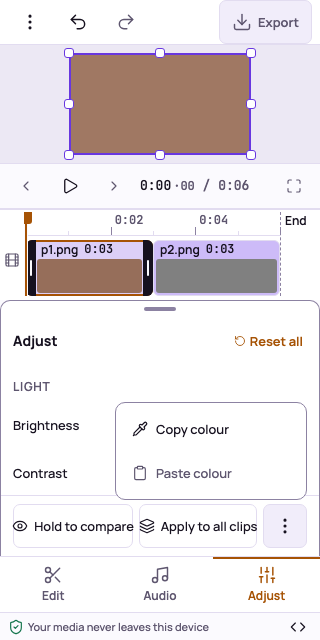
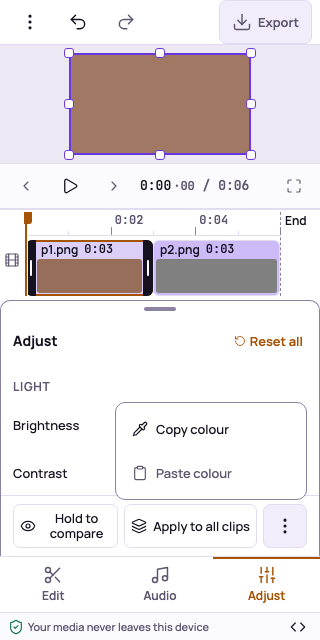
F-007 build questions 138-143, Q100/Q104/Q134 updates, changelog; WebKit-aware drags, 1080p grain parity
Claude-Session: https://claude.ai/code/session_01Bq7VmPLAfYLmC9VGbgjiDp

Changed region(s): [[0.0312, 0.7812, 0.8125, 0.8438]]

diff --git a/tests/harness/export.ts b/tests/harness/export.ts
@@ -1094,7 +1094,8 @@ async function grainParity(grain = 50): Promise<GrainReport> {
   const project = chartProject({ grain }, 0.6);
   const k = 15;
   const file = await exportChartFrame(project, 'colours', k, 1080);
-  if (!file) return { ok: false, sameTwice: false, sameElsewhere: false, nextDiffers: false, corrSame: 0, corrOther: 0 };
+  if (!file)
+    return { ok: false, sameTwice: false, sameElsewhere: false, nextDiffers: false, corrSame: 0, corrOther: 0 };
   const { width: W, height: H, rgba } = file;
   const [a, next, b] = await paintChart(project, 'colours', W, H, [k, k + 1, k]);
   const [c] = await paintChart(project, 'colours', W, H, [k]);

diff --git a/.build-my-app/reports/build-spec-questions.md b/.build-my-app/reports/build-spec-questions.md
@@ -194,3 +194,11 @@ Number fields (F-011 volume, later speed/adjust fields) use the browser's own nu
 136. **Info — the compact inspector's grip (question 105, decided) and a toolbar fix found on the way.** Built per CMP-Inspector "compact": a focusable separator named COPY-inspector.resize on the panel's left edge (700–999 px only), its value the width in CSS pixels; drag, or Left/Up (+16 px), Right/Down (−16 px), Shift (to the limit), Home/End; from `size.inspector` (288 px) to 40 % of the tool's width (320 px at 800 px); no undo step; the width stays through selections, the media drawer and window resizes (clamped) while the page is open. MOD-Keys now treats a focused separator like a slider (RULE-20 *Scope* edited). axe at 800 px found that the compact toolbar's icon-only buttons (Add media, Music, Add text, New project) had no name — their labels were `display: none`; they are now visually hidden instead, so they keep their names (NFR-06; style.md says so).
 137. **Info — F-006 verified on real output.** Preview pixels (Chromium and WebKit, app harness): Fill and Fit of a 16:9 photo in 9:16 (AC1), the 90° turn (red left half on top) and a vertical flip after it (blue on top, i.e. mirrored as displayed, Q22–24), a horizontal flip alone, Original turning to 9:16 after a rotation (AC6). Export (real export workers, decoded): the frame-coded clip rotated once has its top-left corner at the top-right (AC3), and rotated + flipped horizontally has it at the top-left, matching the compositor's paint (INV-02). Export parity also for Fill at 150 % moved 10 % right (samples either side of the shifted white/black edge match the paint). The pinch runs in Chromium e2e through the DevTools protocol's two-point touch (`hasTouch`): two fingers spread to twice their distance give 200 % in one step; lifting one finger ends the pinch and the other finger then changes nothing; a cancelled touch (pointercancel) puts the clip back with no step. WebKit has no multi-touch automation, so a phone check stays on the owner's device checklist.
 
+### F-007 adjust colour and light (wave 4)
+138. **Decided (UX detail, reversible) — Open for your OK: the phone Adjust tab and sheet.** style.md puts Adjust last in the tab bar (Edit, Audio, Text, Looks, Adjust); there is no board of the Adjust sheet itself, only CMP-Inspector "narrow sheets". [Built: the Adjust tab is the bar's third tab for now (Text and Looks join before it with F-010/F-008); it is `aria-disabled` unless a video or photo clip is selected, as the SCR-Editor default narrow board draws it (SCR-Editor "Unavailable controls" now says so, changelog). The sheet holds the inspector's rows at touch size — the title Adjust with Reset all, the groups Light, Colour, Effects, each row label · slider (44 px) · field (`size.field`, `font.size.input`) · Reset (44 px, only when changed) — and a sticky footer of one touch row: Hold to compare (fills the row), Apply to all clips, and More (vertical dots) whose menu (ARIA menu button: opens on its first item, Up/Down/Home/End, Esc closes and returns to More, a click outside closes) holds Copy colour and Paste colour (Paste `aria-disabled` with nothing copied). Long vi-VN footer labels take a second line at 320 px. The sheet closes when the selection stops being a video or photo clip. In the docked inspector the footer follows the CMP-Inspector board: Hold to compare; Copy colour + Paste colour; Apply to all clips.] Proposal: add a CMP-Inspector board "narrow / Adjust sheet", or accept as built.
+139. **Decided (UX detail, reversible) — Open for your OK: Apply to all clips with one clip.** With only the selected clip on the main track there is nothing to apply to. [Built: Apply to all clips is disabled then; it never makes an empty undo step either way.] Proposal: CMP-Inspector "clip Adjust": "…Apply to all clips (unavailable while the main track has one clip)".
+140. **Open — needs your OK: slider resolution on Safari.** The docked inspector's adjustment slider is about 93 px for 201 values (the board's 80 px label, 48 px field and 24 px Reset in a 288 px panel). Chromium places the pointer at sub-pixel precision and reaches every value; WebKit (Safari) uses whole CSS pixels, about 2.5 values per pixel, so some values — including 0 on bipolar sliders — can't be reached by dragging (measured: −1, 1, 4, 6, 9 …). Arrow keys (±1), the number field and the per-row Reset always reach them (F-007.R6), and the e2e covers WebKit with the nearest reachable values. Proposal: (a) accept, or (b) add a small detent: a drag within ±2 of the default snaps to it (a product rule for RULE-08 / CMP-Inspector), or (c) widen the slider by narrowing the label column.
+141. **Open — needs your OK (F-007.AC8 wording): grain "pixel-identical … once exported".** The preview and the export paint grain with the same code from the same output cell, project frame and clip, so before encoding the export's frame is byte-identical to the preview's at the same size (tested: one frame painted twice, and by a second compositor, identical bytes; the next frame differs). Lossy H.264 at Balanced then softens per-pixel grain, so the decoded file can't be pixel-identical: at 1080p the decoded grain correlates 0.16 with the frame's own grain and 0.0002 with the next frame's (480p cells are under a pixel and nearly vanish: 0.07). Proposal: AC8 "…then the grain is pixel-identical each time in the preview and in the frame the export encodes".
+142. **Info — compare hold and the F-007 keys.** Compare is held by the control (pointer or touch down until released anywhere, or the window loses focus; Space/Enter on the focused control until key-up) and by `\` (until key-up or window blur); each holds independently, and compare ends when the held clip stops being the selected one. It is never an undo step; CMP-Preview's pill COPY-preview.comparing (a status message) shows while held. Mod+C copies the selected video or photo clip's colour (no step). Mod+V is not taken from the browser: its `paste` event comes first and, when it brings files, they are added as media (RULE-20); otherwise the copied colour is pasted (one step). With no video or photo clip selected the keys keep the browser's meaning. Bipolar fields and value texts read "+12" and "−8" (U+2212), as the board.
+143. **Info — F-007 verified on real output.** Preview (app harness, Chromium and WebKit): Brightness dragged on a dark photo brightens the preview during the drag and settles at the CPU reference (AC1); compare shows the photo without Brightness +50 and look (AC9); Grain 50 shows the same pixels when the frame is shown again. Export (real export workers, decoded): the 256-step grey ramp at default matches the input within ΔE00 0.40 max (AC2); at Contrast +100, Brightness −100, Shadows +100/Highlights −100 and Fade 100 the 8-bit export stays within ΔE00 0.21 (Chromium) / 0.57 (WebKit) of the full-precision result with no reversal; the 24-patch chart with every adjustment non-zero (Grain 0) matches the paint within mean ΔE00 0.41 / max 0.83 (Chromium) and 0.49 / 1.37 (WebKit) — NFR-08 asks < 2 / < 4 (AC6). AC6's NFR-03 half (1080p playback on the reference phone) is not measurable here: on the owner's device checklist.
+

diff --git a/specs/60-delivery/changelog.md b/specs/60-delivery/changelog.md
@@ -3,7 +3,7 @@
 Entries are needed only for items that are `building` or `shipped`.
 
 ## 2026-11-16 — F-007 building
-- F-007 set to `building` (phase 4, wave 4); it stays `building` until the owner answers build questions 138–142 (the phone Adjust sheet's layout, Apply to all with one clip, the slider resolution on WebKit, AC8's export wording, the compare hold details) and AC6's NFR-03 half is measured on the reference phone.
+- F-007 set to `building` (phase 4, wave 4); it stays `building` until the owner answers build questions 138–141 (the phone Adjust sheet, Apply to all with one clip, the slider’s pointer resolution, AC8’s export wording) and AC6's NFR-03 half is measured on the reference phone.
 - SCR-Editor "Unavailable controls": the phone tab bar's Adjust tab is unavailable unless a video or photo clip is selected (as the SCR-Editor default narrow board draws it).
 - CMP-Inspector "photo clip" is now built as written: a photo has the tabs Edit and Adjust (Looks with F-008), replacing the interim plain title row (build question 134).
 
